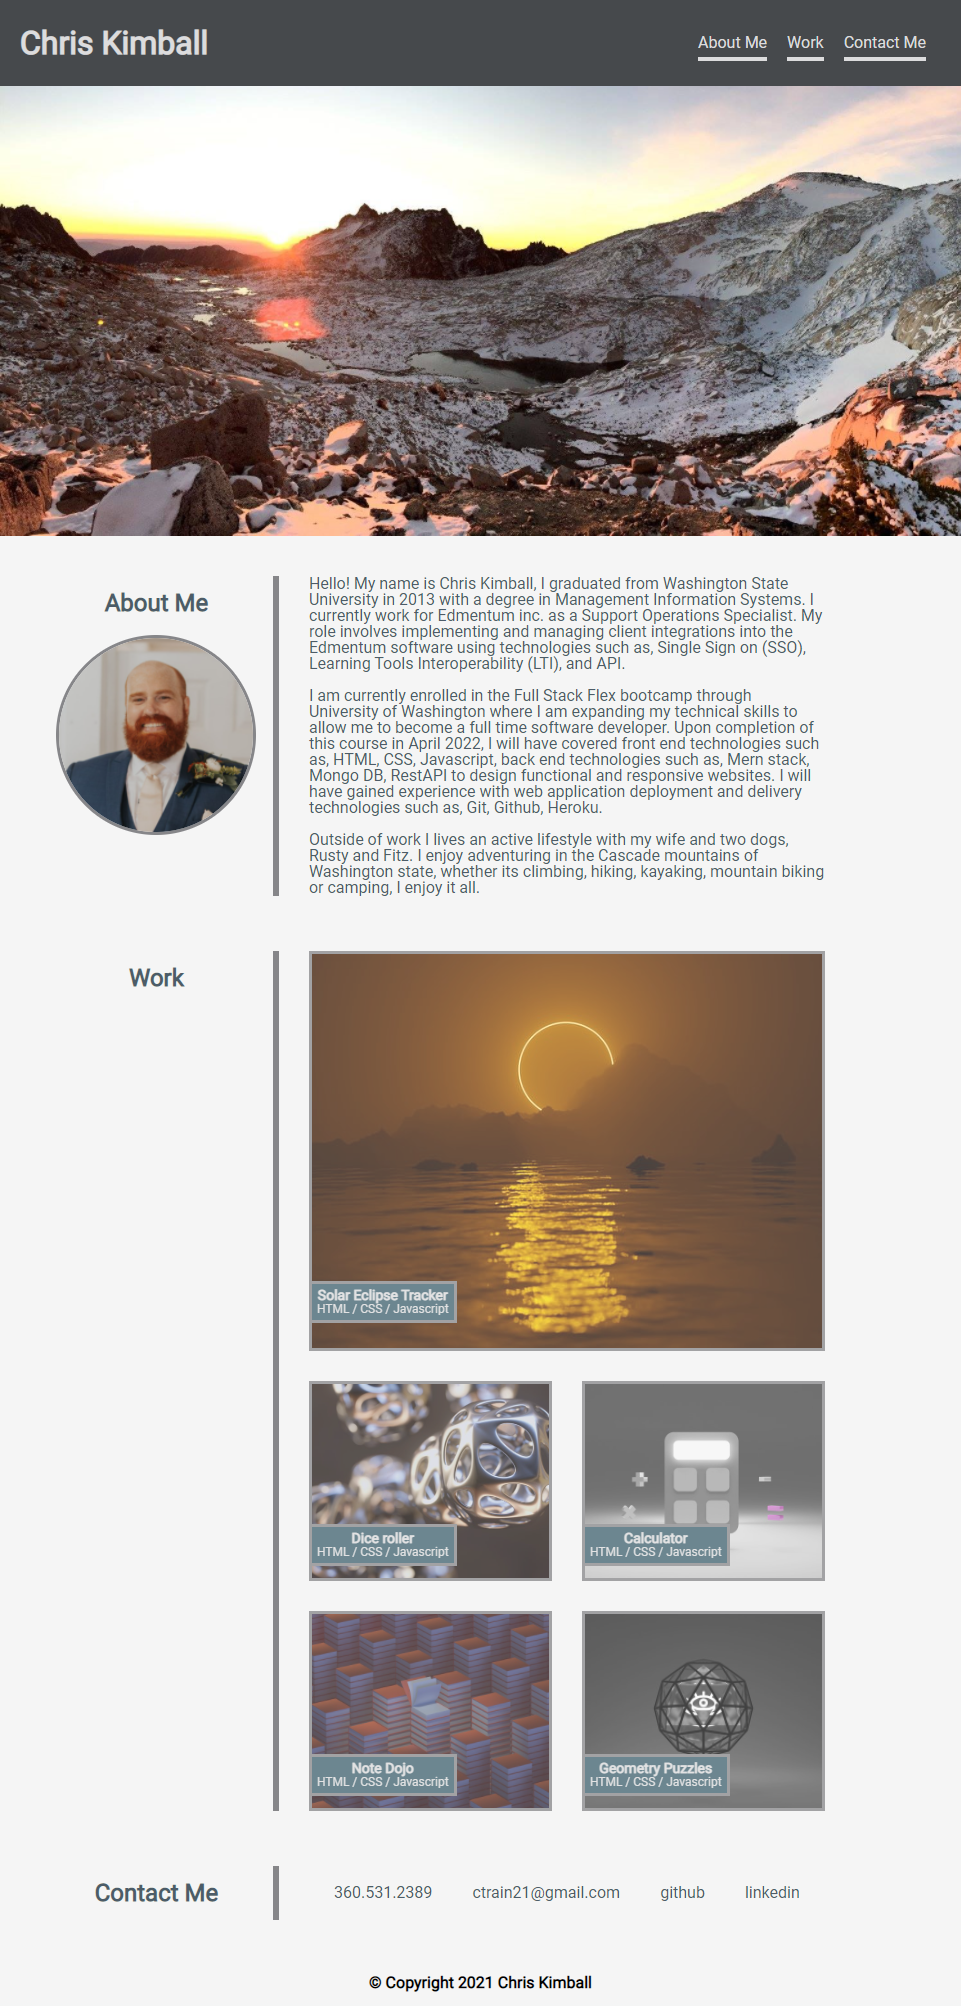
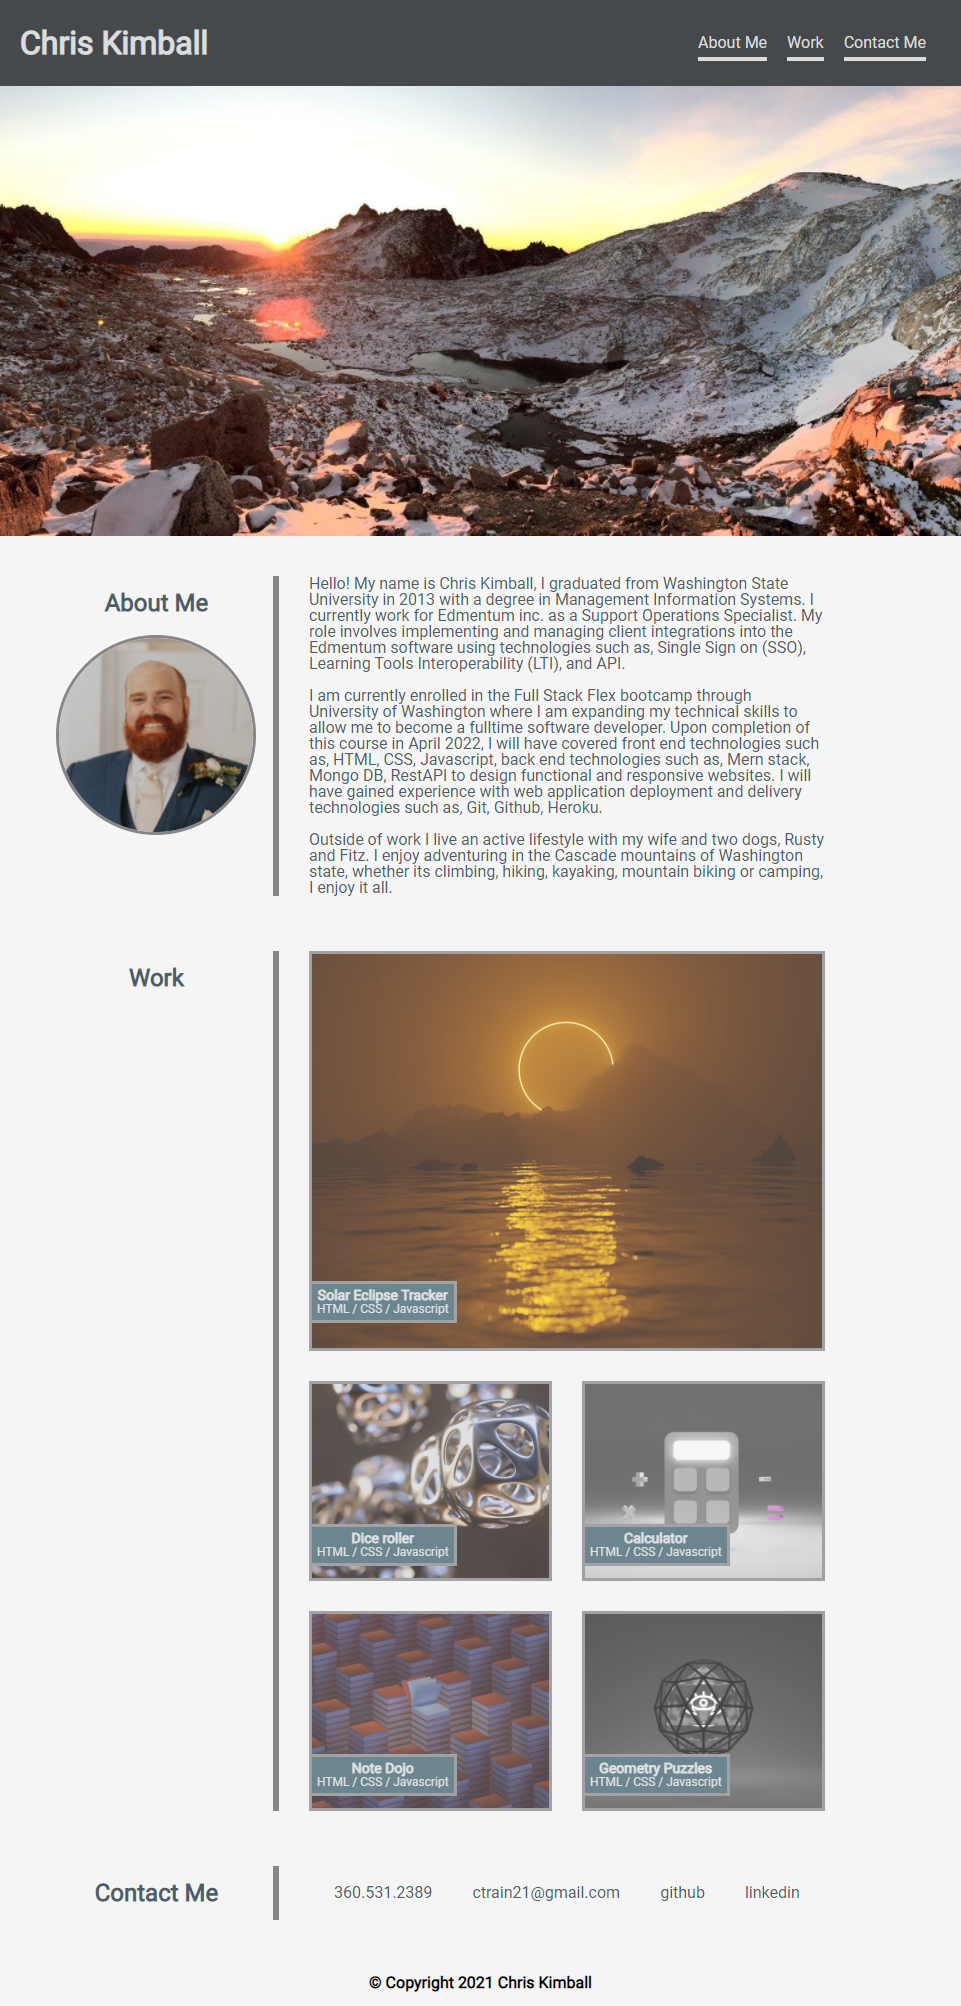
Fixed yet another typo in bio and in screenshots

Changed region(s): [[0.3122, 0.4018, 0.8429, 0.4636], [0.5307, 0.34, 0.8429, 0.3709]]

diff --git a/index.html b/index.html
@@ -59,9 +59,9 @@
                 <p>
                     Hello! My name is Chris Kimball, I graduated from Washington State University in 2013 with a degree in Management Information Systems. I currently work for Edmentum inc. as a Support Operations Specialist. My role involves implementing and managing client integrations into the Edmentum software using technologies such as, Single Sign on (SSO), Learning Tools Interoperability (LTI), and API. 
                 <br><br>
-                    I am currently enrolled in the Full Stack Flex bootcamp through University of Washington where I am expanding my technical skills to allow me to become a full time software developer. Upon completion of this course in April 2022, I will have covered front end technologies such as, HTML, CSS, Javascript, back end technologies such as, Mern stack, Mongo DB, RestAPI to design functional and responsive websites. I will have gained experience with web application deployment and delivery technologies such as, Git, Github, Heroku.
+                    I am currently enrolled in the Full Stack Flex bootcamp through University of Washington where I am expanding my technical skills to allow me to become a fulltime software developer. Upon completion of this course in April 2022, I will have covered front end technologies such as, HTML, CSS, Javascript, back end technologies such as, Mern stack, Mongo DB, RestAPI to design functional and responsive websites. I will have gained experience with web application deployment and delivery technologies such as, Git, Github, Heroku.
                 <br><br>
-                    Outside of work I lives an active lifestyle with my wife and two dogs, Rusty and Fitz. I enjoy adventuring in the Cascade mountains of Washington state, whether its climbing, hiking, kayaking, mountain biking or camping, I enjoy it all.
+                    Outside of work I live an active lifestyle with my wife and two dogs, Rusty and Fitz. I enjoy adventuring in the Cascade mountains of Washington state, whether its climbing, hiking, kayaking, mountain biking or camping, I enjoy it all.
                 </p>
             </article>
         </section>
